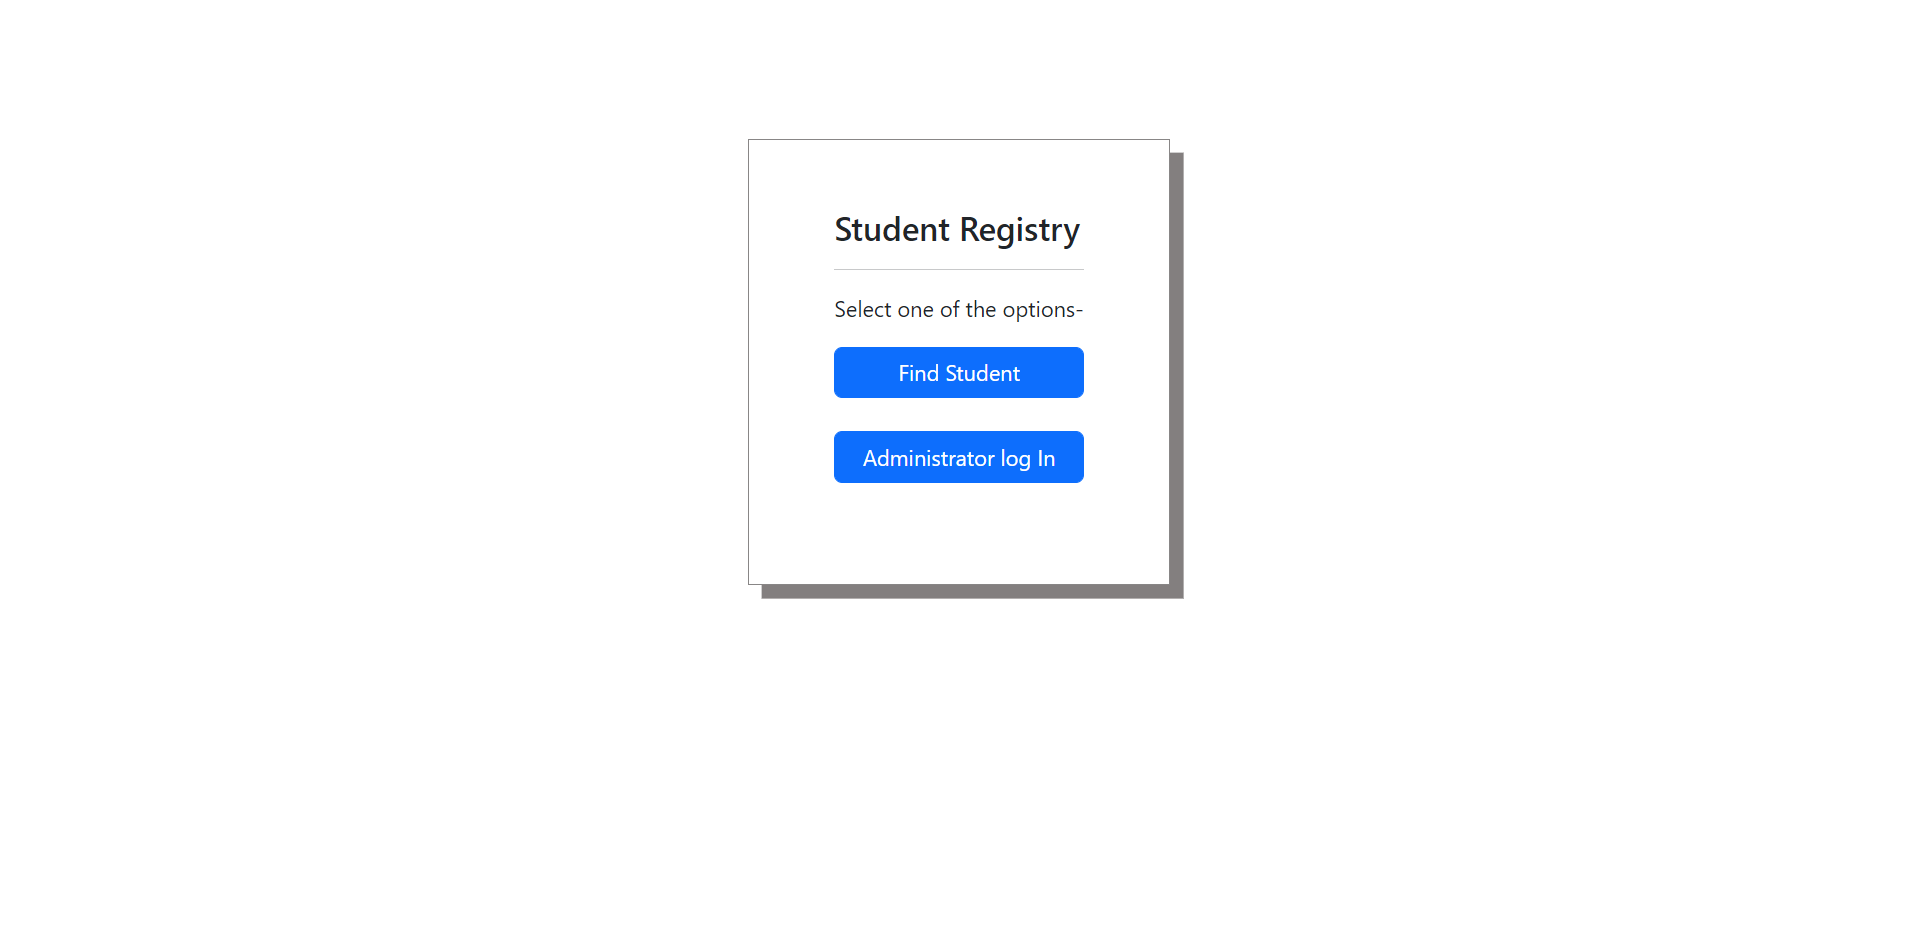
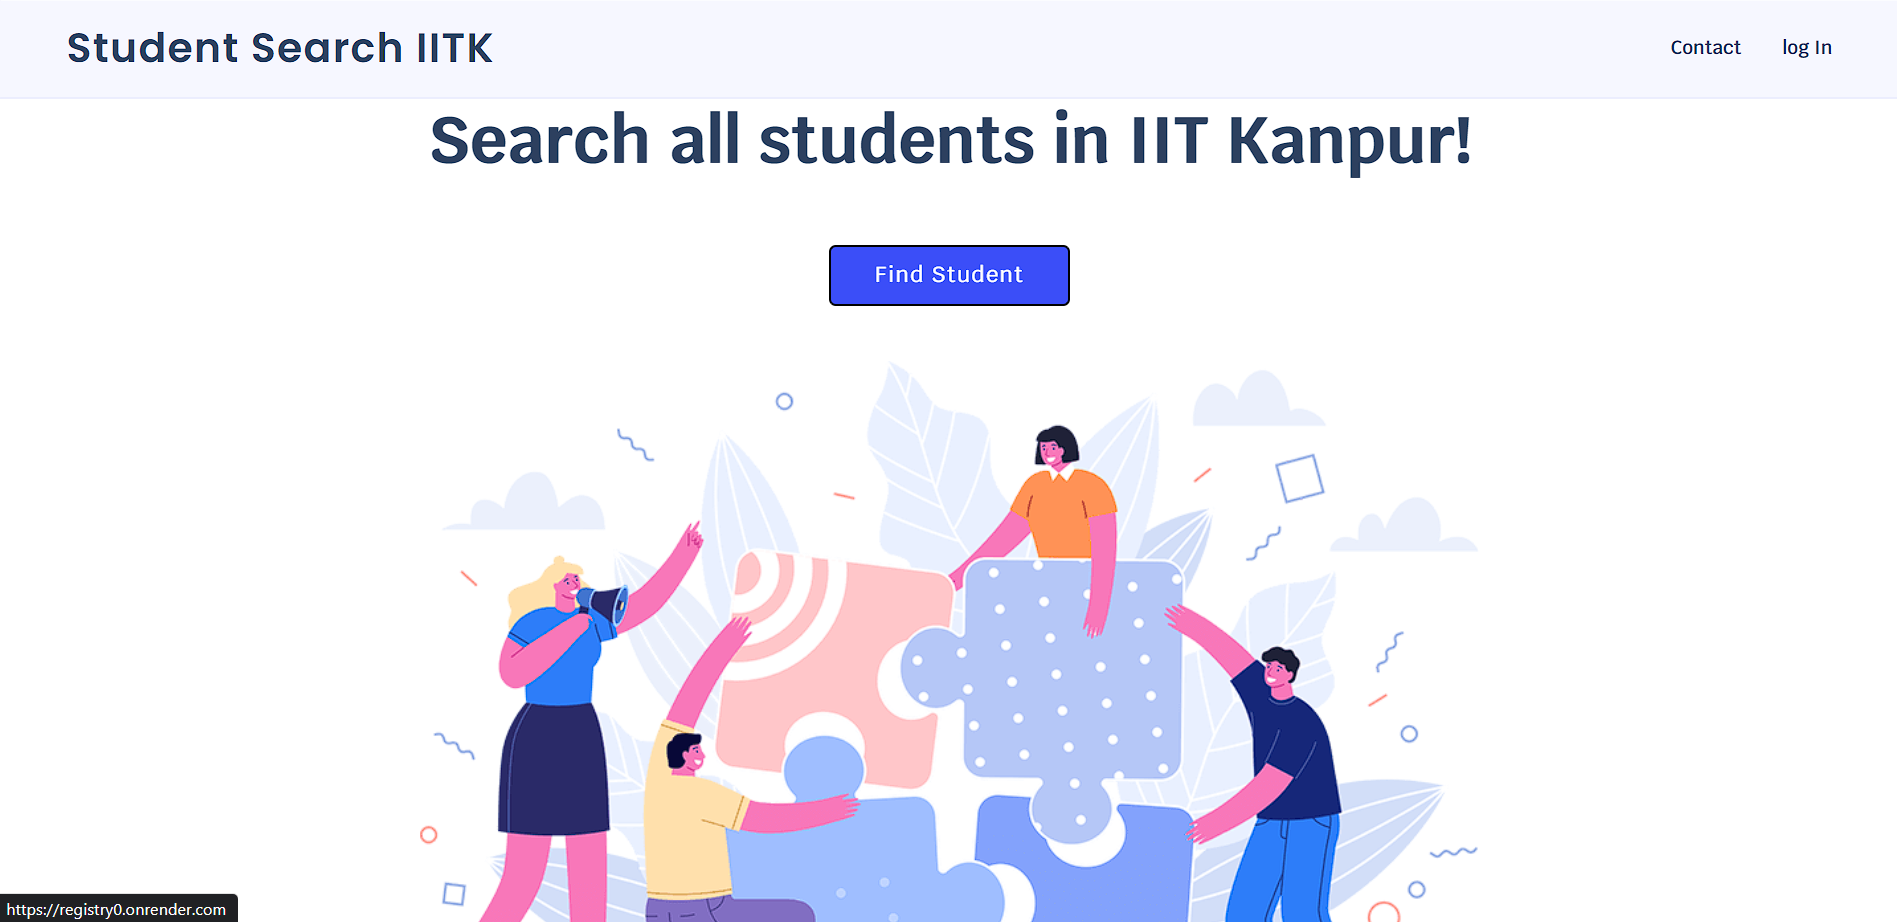
documentation done

diff --git a/README.md b/README.md
@@ -1,32 +1,37 @@
 <h1>Student Registry</h1><br>
+<p>This project is a clone of <b> <a href="https://search.pclub.in/" target="_blank"> Student Search IITK </a></b> which is a website for finding the data of students in IITK. Current version only have the data of Y21 Batch.
 <p>The home page of this site looks like -</p><br>
-<img src="/static/home_page.png" alt="">
-<p>There are two options one is "Find student" which is for student and another is "Administration Log In" which is for Administration, only after login the data can be changed or deleted. 
-<p>This Student Registry can perform these operations-<br>
-1.Adding a new student in the database.<br>
-2.Updating the data of existing student.<br>
-3.Finding the student in the data base.<br>
-4.Deleting the data of a student from data base.<br>
-<h3>1.Adding a new Student</h3>h3><br>
-By clicking on the "Add new Student" button we can navigate to the adding page-<br>
-<img src="/static/Screenshot 2022-08-14 192418.png" alt="">
+<img src="static/home_page.png" alt="">
+<p>There is a button for Find Students which navigates to the next page which looks like the-<br>
+<img src="static/find.png" alt="">
+<p>This page contains a form, which contains 4 input. one can apply any of the filter also none of the filter. No. of filter is totally up to the user. By clicking on "Find" button one can see the filtered results.</p>
+<p>One can go back to the main page by clicking 'Back' button.</p>
+<p>There is a option for login in the top right corner on home page which navigates to the login page which looks like-<br>
+<img src="static/login.png" alt="">
+After successfully login the home page looks like-
+<img src="static/after_login_page.png" alt="">
+There are four options-<br>
+1.Add Student<br>
+2.Find Student.<br>
+3.Update student data.<br>
+4.Deleting student data.<br>
+<h3>1.Adding a new Student</h3><br>
+"Add new Student" button navigates to the adding page which looks like-<br><br>
+<img src="static/add.png" alt="">
 <p>This page contains a form, after filling the form and hitting "Add " button will add the data to the data base.</p><br>
-<p>One can back to the main page by clicking 'Back' button.</p>
-<h3>2.Find Student</h3>h3><br>
-<img src="/static/Screenshot 2022-08-14 192832.png" alt="">
-<p>This page contains a form, which contains 4 input one can apply any of the filter also none of the filter. No. of filter is totally up to the user. By clicking on "Find" button one can see the filtered results.</p><br>
-<p>One can back to the main page by clicking 'Back' button.</p>
-<h3>3.Update Student Data</h3>h3><br>
-<img src="/static/Screenshot 2022-08-14 193233.png" alt="">
-<p>First one has to search the student for updating the data for that either on filter or both the filter can be applied for searching.</p><br>
+<p>One can go back to the main page by clicking 'Back' button.</p>
+<h3>2.Find Student</h3><br>
+<p>This is the same page</p>
+<h3>3.Update Student Data</h3><br>
+"Update Student Data" button navigates to the update page 
+<p>First one has to search the student for updating the data for that either one filter or both the filter can be applied for searching.</p><br>
 <p>The search result looks like this-</p><br>
-<img src="/static/Screenshot 2022-08-14 193452.png" alt="">
-<P>One can update the all deltails except the roll no. of the student.</P>
+<img src="static/update.png" alt="">
+<P>One can go update the all deltails except the roll no. of the student.</P>
 <p>One can back to the main page by clicking 'Back' button.</p>
-<h3>4.Delete Student Data</h3>h3><br>
-    <img src="/static/Screenshot 2022-08-14 193653.png" alt="">
+<h3>4.Delete Student Data</h3><br>
     <p>First one has to search the student for deleting the data for that either on filter or both the filter can be applied for searching.</p><br>
     <p>The search result looks like this-</p><br>
-    <img src="/static/Screenshot 2022-08-14 193750.png" alt="">
+    <img src="static/delet.png" alt="">
     <P>After clicking on the "Delete" button the the student data is no longer stored in database</P>
-    <p>One can back to the main page by clicking 'Back' button.</p>
+    <p>One can go back to the main page by clicking 'Back' button.</p>
